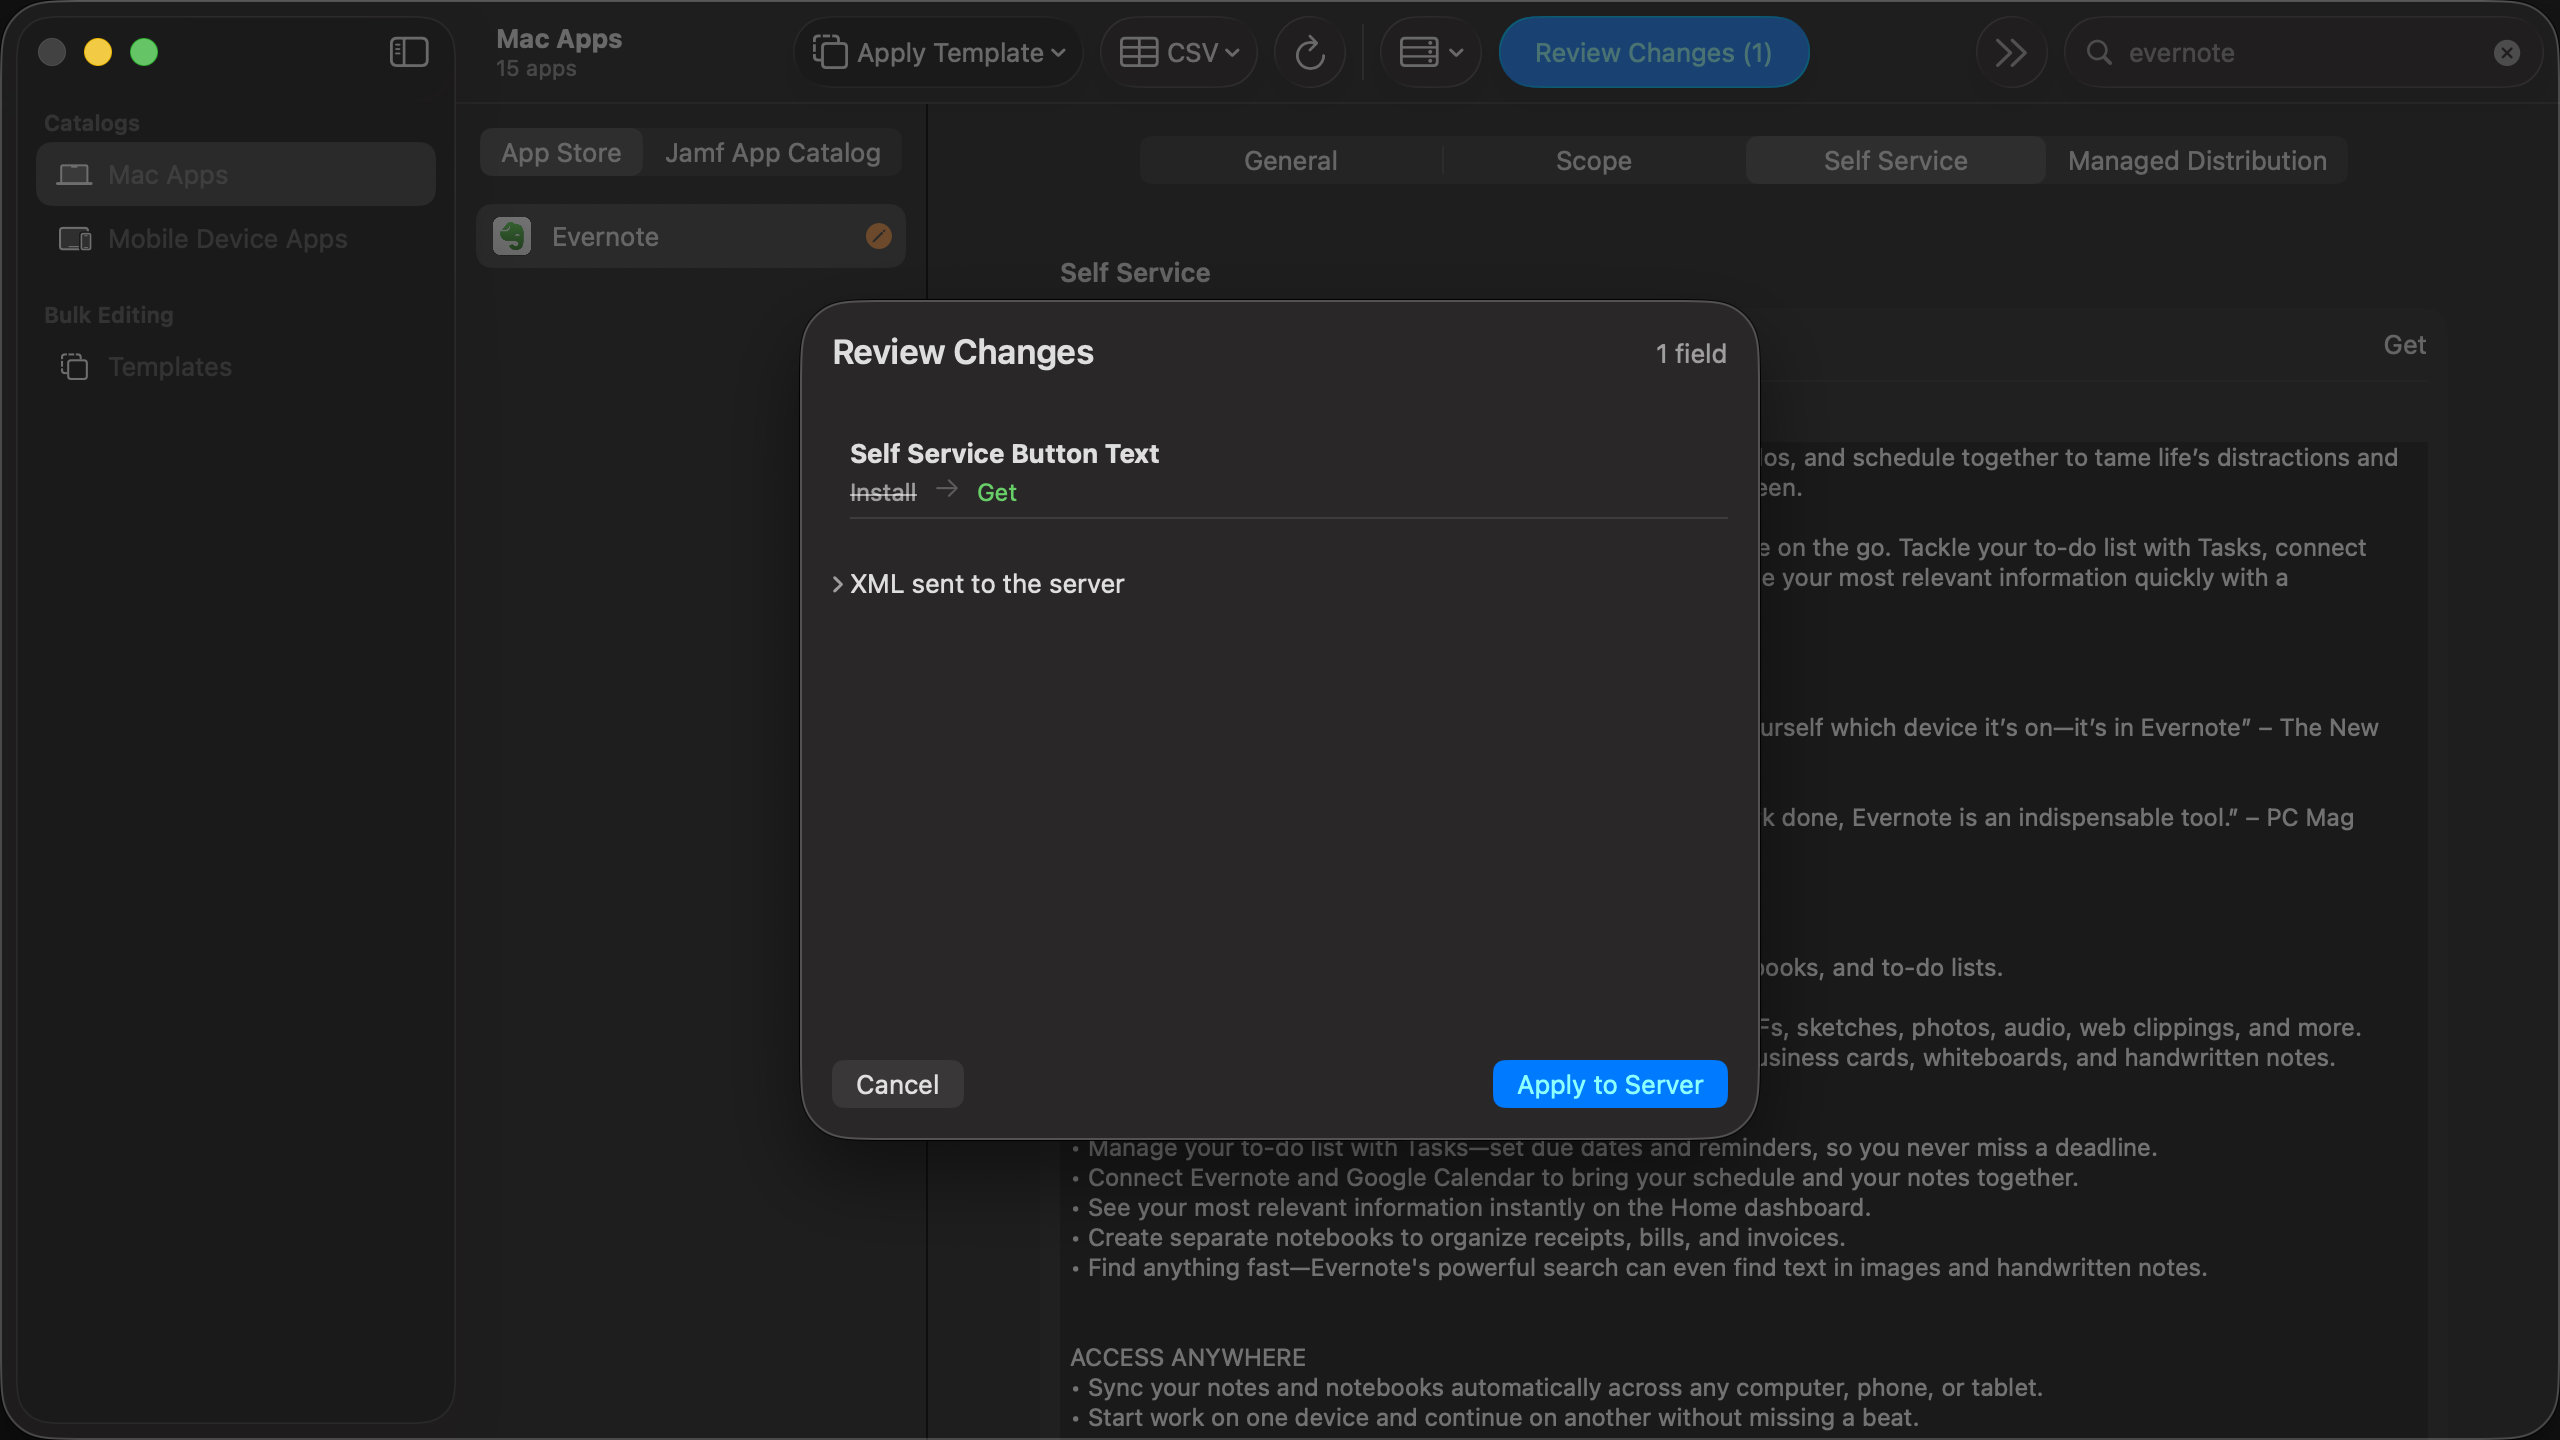
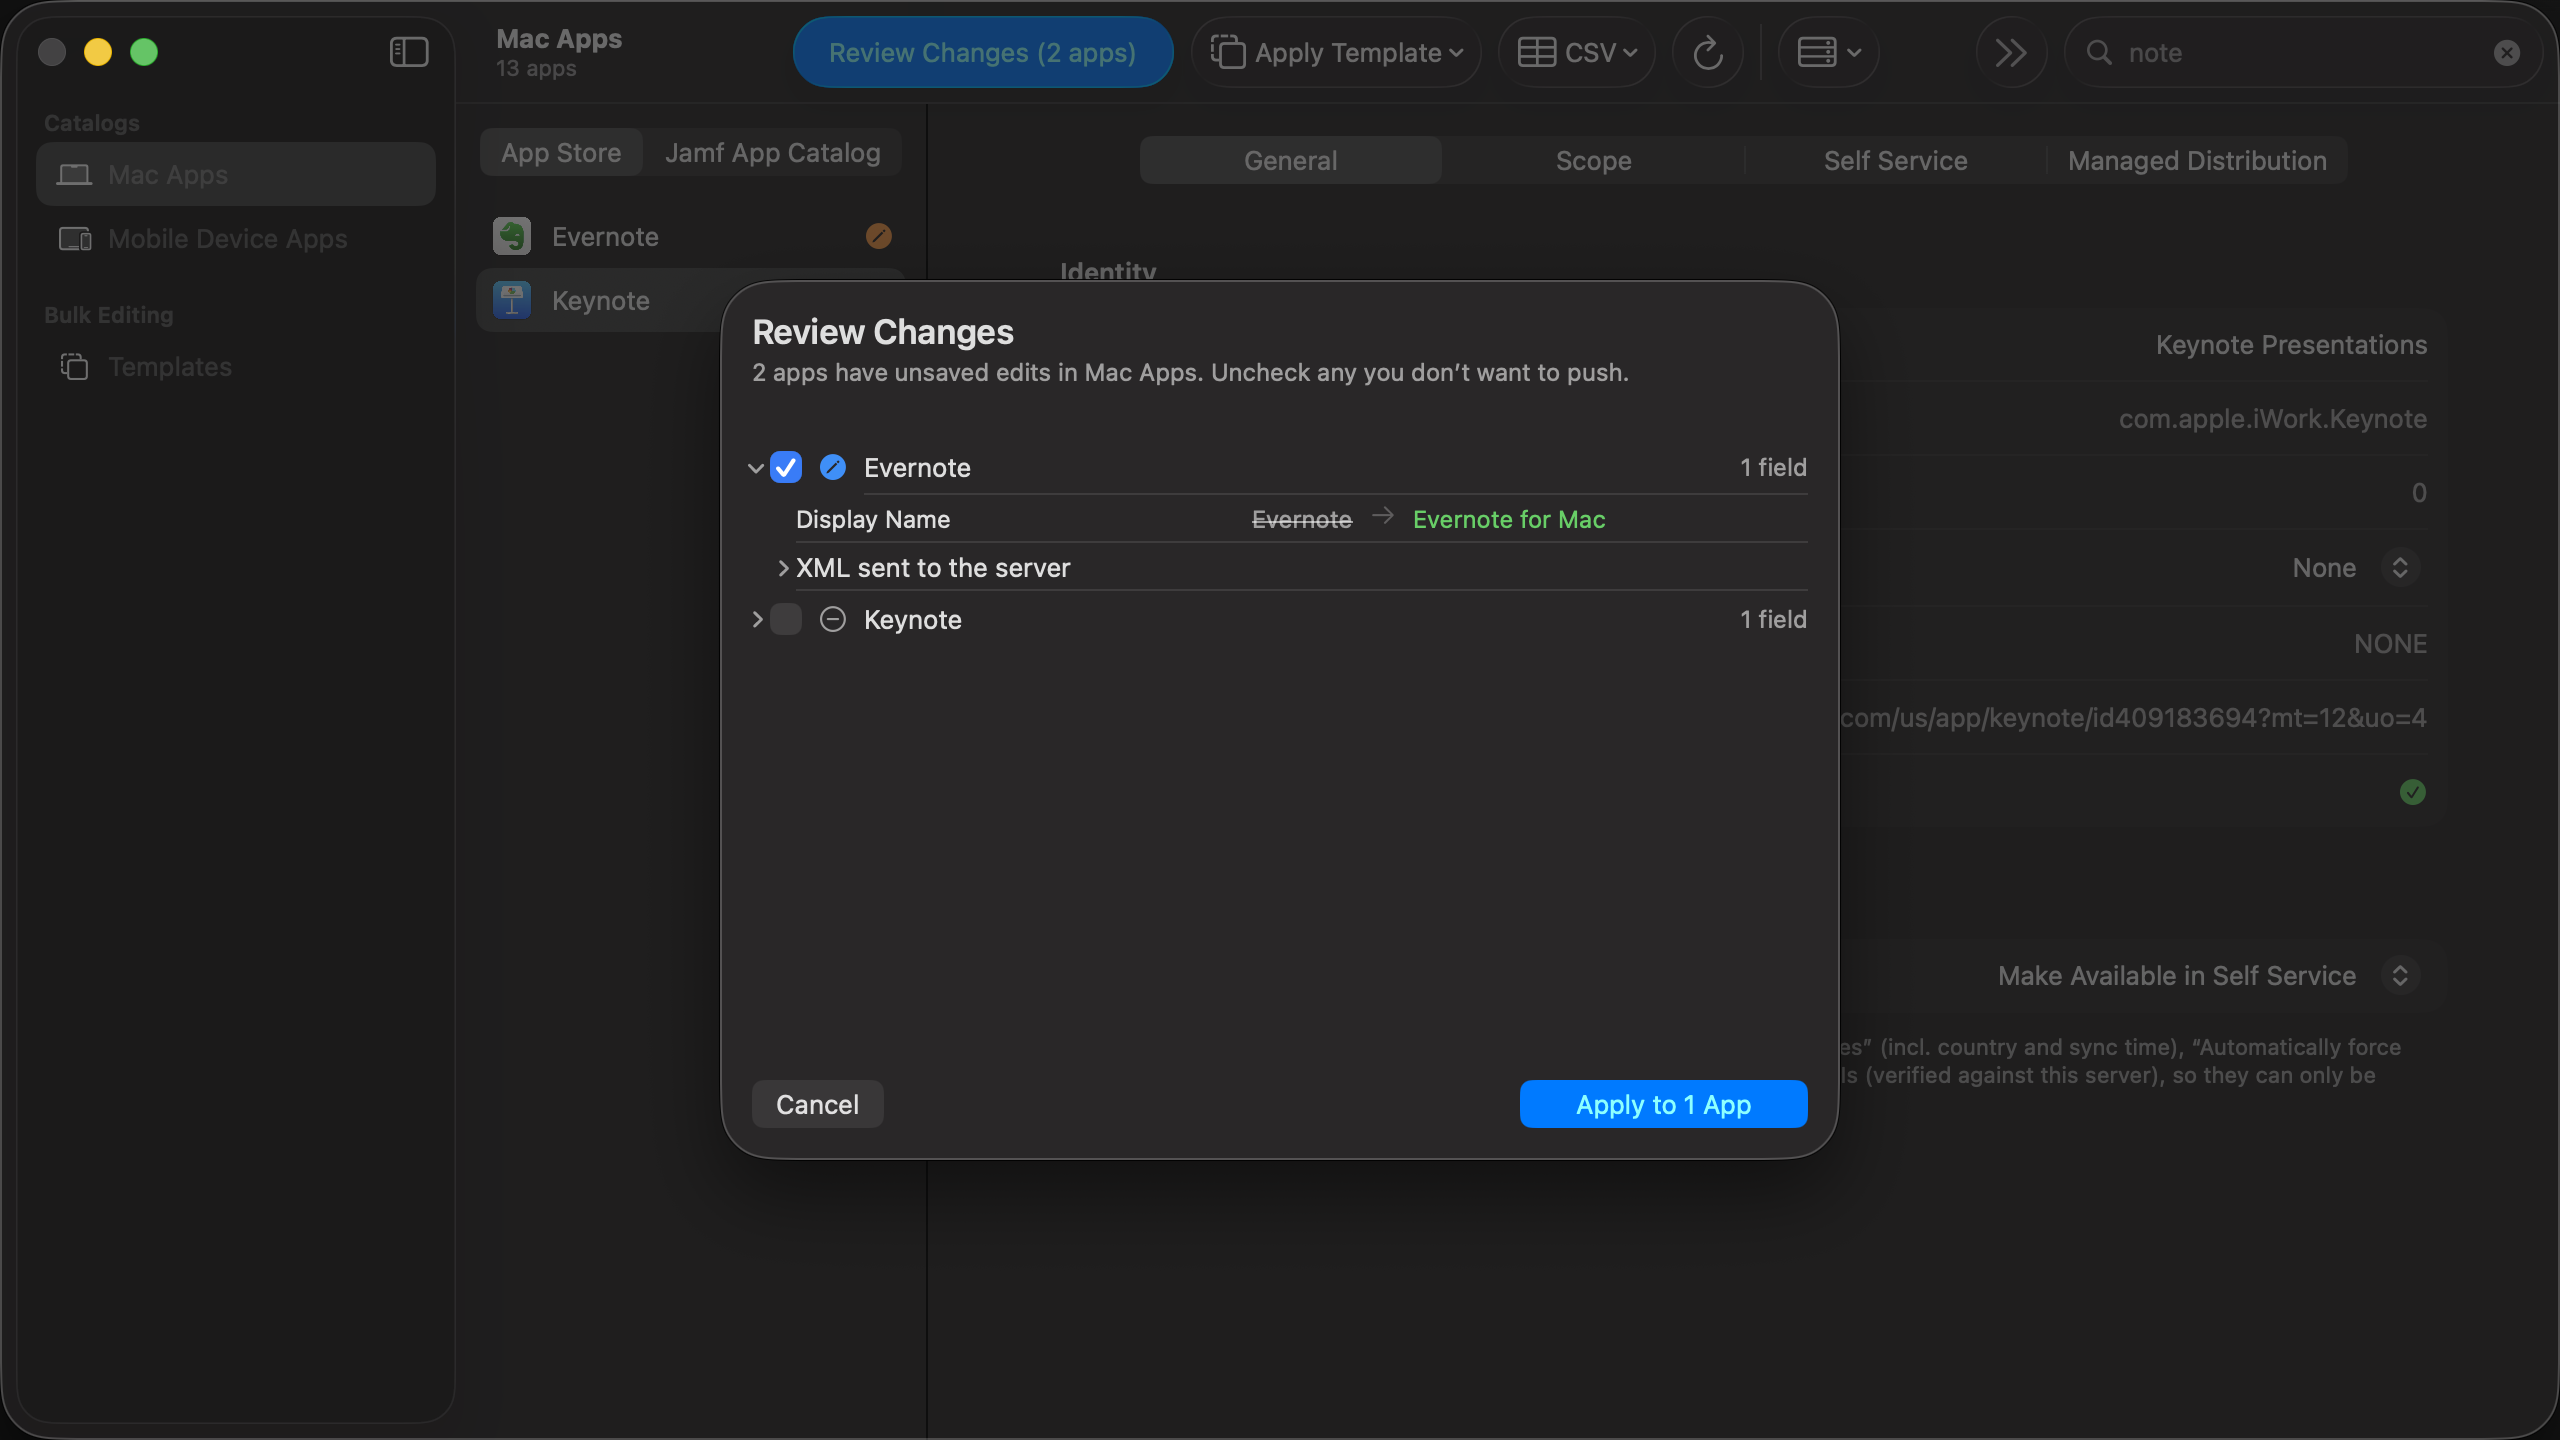
Update README and review screenshot for catalog-wide review

diff --git a/README.md b/README.md
@@ -4,7 +4,7 @@ A macOS 26 (SwiftUI, Liquid Glass) app for viewing and mass-modifying app settin
 
 ![Jamf App Manager](docs/screenshot-main.png)
 
-Every write — a single field, a template applied to fifty apps, or a CSV import — is staged as an old → new diff and sent only after explicit confirmation. Only changed fields are transmitted, so untouched settings can never be clobbered:
+Every write — a single field, a template applied to fifty apps, or a CSV import — is staged as an old → new diff and sent only after explicit confirmation. Edits pile up across apps as you work; Review Changes gathers everything pending in the catalog into one push, with a checkbox per app so you can hold some back for later. Only changed fields are transmitted, so untouched settings can never be clobbered:
 
 ![Review Changes](docs/screenshot-review.png)
 
